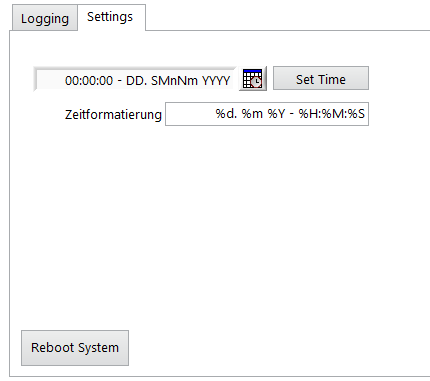
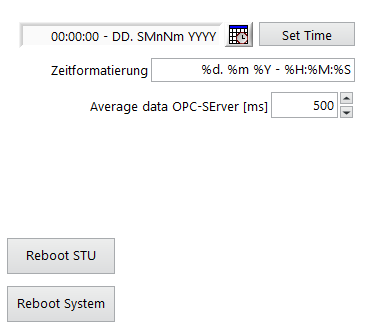
Updated to v5.3.2.16

Changed region(s): [[0.0, 0.0, 1.0, 1.0], [0.0598, 0.1824, 0.0897, 0.2432]]

diff --git a/C-RIO_Dashboard_de.md b/C-RIO_Dashboard_de.md
@@ -4,9 +4,9 @@
 Benutzeranleitung für das ICOtronic Dashboard.
 
 # Version
-Diese Benutzeranleitung wurde für die Dashboardversion v5.3.0.4 geschrieben. Für ältere Versionen den nachstehenden Link benutzen:
+Diese Benutzeranleitung wurde für die Dashboardversion v5.3.2.16 geschrieben. Für ältere Versionen den nachstehenden Link benutzen:
 
-[ältere Version](https://github.com/MyTooliT/Dashboard/blob/7f87fe9a3be55a1fabbaa3e65d0878818b1d4ac3/C-RIO_Dashboard_de.md)
+[ältere Version](https://github.com/MyTooliT/Dashboard/blob/07021f2d55188e47bdf2cb417bd4a4016ef03118/C-RIO_Dashboard_de.md)
 
 # ICOtronic System Komponenten 				  			
 
@@ -44,6 +44,8 @@ Anschließend, sofern notwendig, sollte der Computer neu gestartet werden.
 
 Durch drücken von "connect to SPU" sollte das Dashboard geöffnet werden.
 
+Durch drücken des "Sync Time" Buttons kann die aktuelle PC Zeit als die aktuelle Systemzeit der SPU gesetzt werden.
+
 Das Dashboard verfügt über 4 Reiter: **Stability**, **Breakout detection**, **Raw data view** und **System**. Oberhalb der Reiter befindet sich, egal welcher Reiter gewählt ist, eine Anzeige zum Verbindungsstatus des Systems und das ICOTronic-Logo.
 
 Wenn das System mit einem sensorischen Werkzeughalter verbunden ist, ändert sich die Farbe der Verbindungsanzeige zu Blau. Wenn die Verbindung getrennt wird, ändert sich die Farbe wieder zu Weiß.
@@ -79,7 +81,7 @@ Die rechte Statusanzeige zeigt an, ob der digitale Eingang für die Aufzeichnung
 
 ![settings](assets/settings.png)
 
-Der Reiter "Settings" wird verwendet, um das System neu zu starten und die Systemzeit zu ändern. Unten sehen Sie den Button "Reboot System". Wenn dieser Button gedrückt wird, initialisiert die SPU einen Neustart des Systems. Oben sehen Sie zwei Textfelder. Das obere dient zur Definition der neuen Systemzeit, und das untere zur Festlegung des Formats der Zeit, die im rechten oberen Bereich des Dashboards angezeigt wird. Der Button "Set Time" wird verwendet, um die im Textfeld angegebene Zeit als Systemzeit festzulegen. Der Button mit dem Kalender und der Uhr kann verwendet werden, um ein neues Fenster mit einem Kalender und einer Uhr zu öffnen und die Zeit einzustellen.
+Der Reiter "Settings" wird verwendet, um das System neu zu starten und die Systemzeit zu ändern. Unten sehen Sie den Button "Reboot System". Wenn dieser Button gedrückt wird, initialisiert die SPU einen Neustart des Systems. Der Button "Reboot STU" kann benutzt werden um einen Reset der angeschlossenen STU zu erwirken. Die "Average data OPC-SErver [ms]" Einstellung kann genutzt werden um die Datenrate bei aktiver OPCUA Verbindung einzustellen. Oben sehen Sie zwei Textfelder. Das obere dient zur Definition der neuen Systemzeit, und das untere zur Festlegung des Formats der Zeit, die im rechten oberen Bereich des Dashboards angezeigt wird. Der Button "Set Time" wird verwendet, um die im Textfeld angegebene Zeit als Systemzeit festzulegen. Der Button mit dem Kalender und der Uhr kann verwendet werden, um ein neues Fenster mit einem Kalender und einer Uhr zu öffnen und die Zeit einzustellen.
 
 ![clock](assets/clock.png)
 
@@ -92,7 +94,10 @@ Auf der linken Seite kann mittels Drop-Down Liste die gewünschte Verbindungsart
 
 Sie können wählen, welche Sensoren des ausgewählten Halters Sie verwenden wollen durch die Radiobuttons unter der Liste der gefundenen Halter. Eine Ausnahme ist der "Static / DI"-Modus. Ausgewählte Sensoren sind grün markiert. Beachten Sie, dass wenn Sie mehr als einen Sensor verwenden wenn der gewählte Halter nur einen Sensor hat, die anderen beiden Kanäle nutzlose Signale von nicht angeschlossenen PINs im Halter empfangen. Das System wird im 1-Kanal-Modus verbinden, wenn nur ein Sensor ausgewählt ist. Wenn mehr als ein Sensor ausgewählt ist, wird das System im 3-Kanal-Modus verbinden. Wenn Sie mehr als 3 Sensoren auswählen, wird das System nur die ersten 3 ausgewählten Sensoren verwenden. Die Kanäle werden immer so zugewiesen, dass der Sensor mit der niedrigsten Nummer Kanal 1 ist und der Sensor mit der höchsten Nummer Kanal 3.
 
-![channel_numbers](assets/channel_numbers.png)
+![channel_numbers](assets/sensors.png)
+
+Wenn der "1,8V Ref" Radiobutton aktiv ist, benutzt der verbundene Halter anstelle der internen Versorgung (3,3V), als Referenzspannung des ADCs, eine Spannung von 1,8V. Dies wird von manchen Sensoren wie zum Beispiel vom +-40g 3-Achsen Beschleunigungssensor benötigt.
+**Achtung: Es kann immer nur 1 Referenz benutzt werden. Das bedeutet wenn mehrere Sensoren benutzt werden und diese unterschiedliche Spannungen als Referenz benutzen wird immer mindestens 1 Signal fehlerhaft sein!!!**
 
 #### Dashboard / OPC UA
 
@@ -130,7 +135,12 @@ Die linken Buttons dienen dazu, die momentan erkannten Sensor- und Regel-Listen 
 
 ![system](assets/Database_sensors.png)
 
-In diesem Modul können Sie die definierten Sensoren der Sensorliste anzeigen und ändern. Die Liste auf der linken Seite zeigt die definierten Sensoren. Sie können einen Sensor durch Anklicken hervorheben. Mit dem Button "Delete Sensor" können Sie den ausgewählten Sensor aus der Liste löschen. Wenn Sie den Button "Sensor ->" drücken, werden die Werte des ausgewählten Sensors aus der linken Liste in die Konfigurationsfelder auf der rechten Seite geladen. Die Liste auf der rechten Seite zeigt alle Halter, die momentan vom System in der Nähe erkannt wurden. Durch Klicken auf einen Halter wird dieser hervorgehoben. Wenn Sie den "->" Button drücken, werden die Werte des ausgewählten Halters in die Konfigurationsfelder unten geladen. In den Feldern unten finden Sie die Konfigurationen des Halters für die Sensorliste. Sie können die IFT-Wert-Offsets/Faktoren des Halters in den Feldern ganz rechts ändern. Die "Sensor ID" ist jene ID, die Sie der Halterkonfiguration in der Sensorliste zuweisen möchten. Wenn diese ID bereits definiert ist, wird sie beim Speichern überschrieben. Die "MacAdr" ist die MAC-Adresse des Halters und definiert, welcher Halter verbunden wird. Der "Name" ist ein frei wählbarer Name, der auf dem "Stability"-Reiter angezeigt wird, wenn der Sensor verbunden ist. Das Feld "Description" kann beispielsweise mit Informationen über diesen Sensor gefüllt werden. Das Feld "Channels" wird verwendet, um festzulegen, wie viele Kanäle der ausgewählte Halter in diesem Sensoreintrag verwendet. Alle Werte außer "1" werden als 3 Kanäle angesehen, während "1" einen Kanal aktiviert. Mit dem Button "Add/Update Sensor" können die Parameter in die Sensorliste auf der linken Seite geschrieben werden.
+In diesem Modul können Sie die definierten Sensoren der Sensorliste anzeigen und ändern. Die Liste auf der linken Seite zeigt die definierten Sensoren. Sie können einen Sensor durch Anklicken hervorheben. Mit dem Button "Delete Sensor" können Sie den ausgewählten Sensor aus der Liste löschen. Wenn Sie den Button "Sensor ->" drücken, werden die Werte des ausgewählten Sensors aus der linken Liste in die Konfigurationsfelder auf der rechten Seite geladen. Die Liste auf der rechten Seite zeigt alle Halter, die momentan vom System in der Nähe erkannt wurden. Durch Klicken auf einen Halter wird dieser hervorgehoben. Wenn Sie den "->" Button drücken, werden die Werte des ausgewählten Halters in die Konfigurationsfelder unten geladen. In den Feldern unten finden Sie die Konfigurationen des Halters für die Sensorliste. Sie können die IFT-Wert-Offsets/Faktoren des Halters in den Feldern ganz rechts ändern. Die "Sensor ID" ist jene ID, die Sie der Halterkonfiguration in der Sensorliste zuweisen möchten. Wenn diese ID bereits definiert ist, wird sie beim Speichern überschrieben. Die "MacAdr" ist die MAC-Adresse des Halters und definiert, welcher Halter verbunden wird. Der "Name" ist ein frei wählbarer Name, der auf dem "Stability"-Reiter angezeigt wird, wenn der Sensor verbunden ist. Das Feld "Description" kann beispielsweise mit Informationen über diesen Sensor gefüllt werden. Das Drop-Down Menü "Channels" wird verwendet, um festzulegen, welche Kanäle der ausgewählte Halter in diesem Sensoreintrag verwendet. 
+
+![system](assets/sensorauswahl.png)
+
+Hier gibt es bereits ein paar vordefinierte Auswahlen. Wenn eine andere Sensoreinstellung gewünscht ist kann diese mittels "<Andere ...>" eingetragen werden. Nun wird eine 16-bit binäre Eingabe für die Sensorauswahl benötigt. Alle "0" vor der ersten benötigten "1" können weggelassen werden. Sensor 1 ist hierbei das LSB bit. Wenn zum Beispiel Sensoren 1,5 und 10 gewählt werden sollen muss hierfür "1000010001" eingegeben werden. Das MSB definiert hierbei die Referenzspannung. Wenn an der MSB Stelle eine "1" eingetragen wird, dann wird die 1,8V Referenzspannung verwendet.
+Mit dem Button "Add/Update Sensor" können die Parameter in die Sensorliste auf der linken Seite geschrieben werden.
 
 ### Regel-Modul
 

diff --git a/C-RIO_Dashboard_en.md b/C-RIO_Dashboard_en.md
@@ -4,10 +4,10 @@
 User manual for the ICOtronic Dashboard.
 
 # Version
-This version of the documentation was written for the Dashboard version v5.3.0.4.
+This version of the documentation was written for the Dashboard version v5.3.2.16.
 For older documentation look at the following link:
 
-[older Version](https://github.com/MyTooliT/Dashboard/blob/7f87fe9a3be55a1fabbaa3e65d0878818b1d4ac3/C-RIO_Dashboard_en.md)
+[older Version](https://github.com/MyTooliT/Dashboard/blob/07021f2d55188e47bdf2cb417bd4a4016ef03118/C-RIO_Dashboard_en.md)
 
 # ICOtronic System components 		  			
 
@@ -43,6 +43,7 @@ Use the "ICOtronicRemotePanel" then open the program. Now it will open the follo
 
 With a press on "connect to SPU" the program should connect to the Dashboard.
 
+The momentary system time of the computer can be set as the momentary system time of the SPU with the "Sync Time" button.
 
 The Dashboard contains five tabs: **Stability**, **Raw data view**, **Replay**, **System** and **Database**. The header of the Dashboard, which is active on all the mentioned tabs, has a Connection identifier and the ICOtronic logo.
 
@@ -79,7 +80,7 @@ The one identifier to the right show if the digital input for recording is set b
 
 ![settings](assets/settings.png)
 
-The "Settings" tab is used to reboot the system and to change the system time. On the bottom you can see the "Reboot System" button. The SPU will initialise a reboot of the system when this button is pressed. On top you can 2 text-fields. The upper one is to define the new system time and the lower one is to set the format of the time, shown on the topmost right part of the dashboard. The button "Set Time" is used to set the time given in the text-field to the system time. The button with the calendar and clock can be used to open a new window with a calendar and the clock to set the time.
+The "Settings" tab is used to reboot the system and to change the system time. On the bottom you can see the "Reboot System" button. The SPU will initialise a reboot of the system when this button is pressed. The "Reboot STU" button can be used to reset the connected Transceiver Unit. The "Average data OPC-SErver [ms]" configuration is used to change the datarate of the system if the OPCUA connection is used. On top you can 2 text-fields. The upper one is to define the new system time and the lower one is to set the format of the time, shown on the topmost right part of the dashboard. The button "Set Time" is used to set the time given in the text-field to the system time. The button with the calendar and clock can be used to open a new window with a calendar and the clock to set the time.
 
 ![clock](assets/clock.png)
 
@@ -94,6 +95,9 @@ On the left side you can choose a connection type with the drop down menu. On th
 You can chose which sensors of the chosen holder you want to use with the radio buttons below the list of found holders, with the exception of the "Static / DI" mode. Chosen sensors are green. Note that if you use more than one sensor with a holder which only has one sensor the other two channels will be useless signals from not connected PINs inside the holder. The system will connect in the 1-channel mode if only 1 sensor is selected. The system will connect in the 3-channel mode if more than 1 sensors are selected. If you select more than 3 sensors will the system only use the first 3 selected sensors. The channels are always from the lowest sensor number as channel 1 and the highest channel number as channel 3. 
 
 ![channel_numbers](assets/sensors.png)
+
+If the radio button "1,8V Ref" is used to change the ADC-reference Value of the connected holder from the VDD(3,3V) to 1,8V. This has to be used when you for example use the +-40g 3-axis accelerometer.
+**Attention: The holder can only use 1 reference voltage at the same time so if you use multiple sensors which have different needed reference voltages then at least 1 will always give wrong values!!!**
 
 #### Dashboard / OPC UA
 
@@ -131,7 +135,12 @@ The leftmost buttons are used to load the momentary detected sensor and rule lis
 
 ![system](assets/Database_sensors.png)
 
-In this subpart you can see the defined sensors of the sensor list and change them. The list on the left side shows the defined sensors. You can highlight a sensor by clicking on it. With the "Delete Sensor" button you can delete the chosen sensor from the list. If you press the "Sensor ->" button the values of the chosen sensor will be loaded from the left list into the configuration fields on the right side. The list on the right side shows all holders momentary found by the system in close proximity. By clicking one holder it will be highlighted. If you press the "->" button the values of the chosen holder will be loaded into the configuration fields below. In the fields below you can find the configurations of the holder for the sensor list. You can change the IFT value offsets/factors of the holder on the rightmost fields. The "Sensor ID" is the ID you want to give the holder configuration in the sensor list. If this ID is already defined will it be overwritten when saving. The "MacAdr" is the MAC-Address of the holder and defines which holder will be connected. The "name" is a name which can be given to the sensor which will be shown on the "Stability" tab when the sensor is connected and can be chosen freely. The "description" can be filled for example with information about this sensor. The "Channels" field is used to define how many channels the chosen holder uses in this sensor entry. All values except "1" will be seen as 3 channels whereas "1" activates 1 channel. With the "Add/Update Sensor" button the parameters can be written into the sensor list on the left. 
+In this subpart you can see the defined sensors of the sensor list and change them. The list on the left side shows the defined sensors. You can highlight a sensor by clicking on it. With the "Delete Sensor" button you can delete the chosen sensor from the list. If you press the "Sensor ->" button the values of the chosen sensor will be loaded from the left list into the configuration fields on the right side. The list on the right side shows all holders momentary found by the system in close proximity. By clicking one holder it will be highlighted. If you press the "->" button the values of the chosen holder will be loaded into the configuration fields below. In the fields below you can find the configurations of the holder for the sensor list. You can change the IFT value offsets/factors of the holder on the rightmost fields. The "Sensor ID" is the ID you want to give the holder configuration in the sensor list. If this ID is already defined will it be overwritten when saving. The "MacAdr" is the MAC-Address of the holder and defines which holder will be connected. The "name" is a name which can be given to the sensor which will be shown on the "Stability" tab when the sensor is connected and can be chosen freely. The "description" can be filled for example with information about this sensor. The "Channels" drop-down menu is used to define which channels the chosen holder uses in this sensor entry. 
+
+![system](assets/sensorauswahl.png)
+
+There are some predefined selections. Different selections can be made by choosing the "<Andere...>" option. Now it will want an binary 16-bit input for the chosen senors. All "0" before the first used "1" kann be left out. The sensor 1 is here the LSB. So for example if you want to connect to the 1st, 5th and 10th sensor you have to type in "1000010001". The MSB bit is used to define the Reference voltage. If it is "1" the 1,8V reference voltage will be used. 
+With the "Add/Update Sensor" button the parameters can be written into the sensor list on the left. 
 
 ### Rule sub part
 
